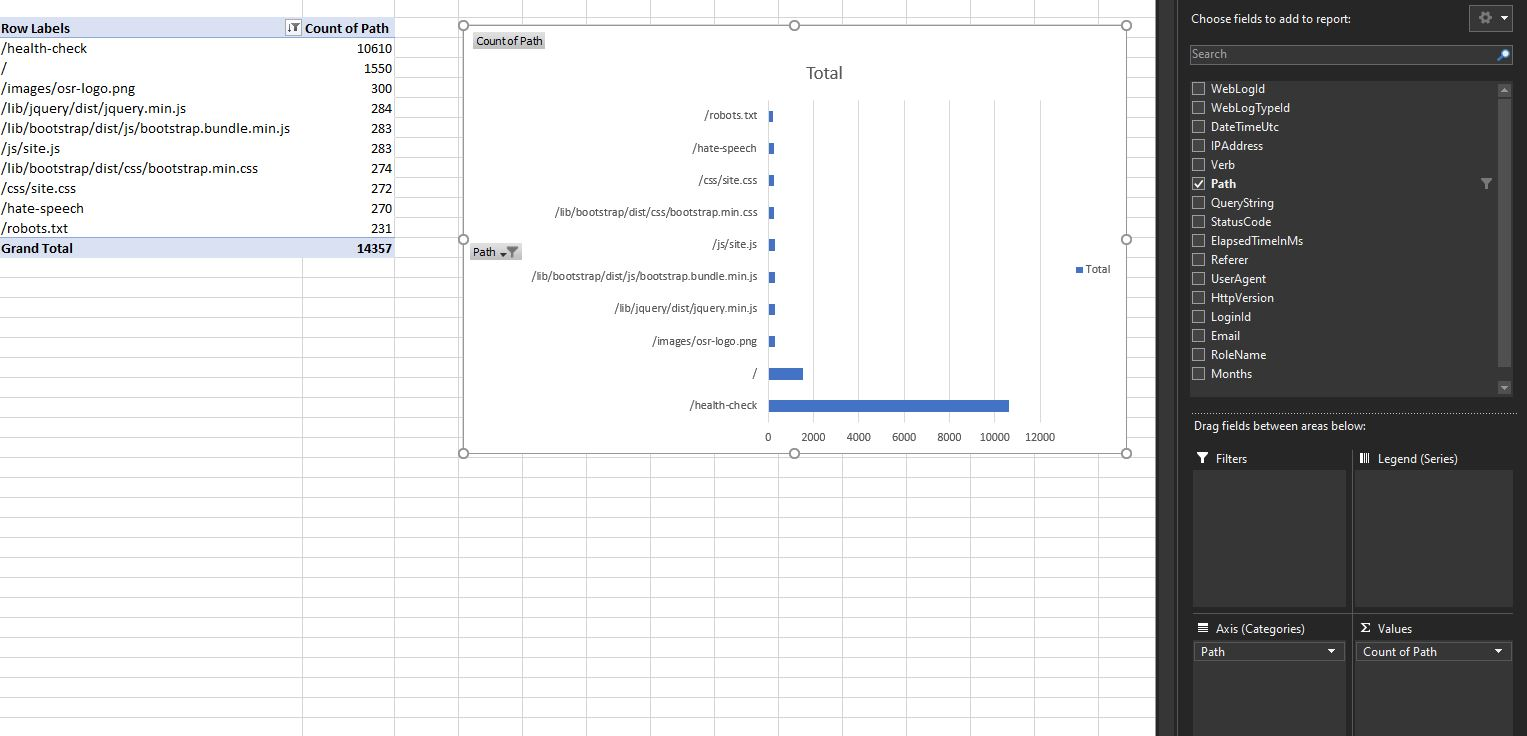
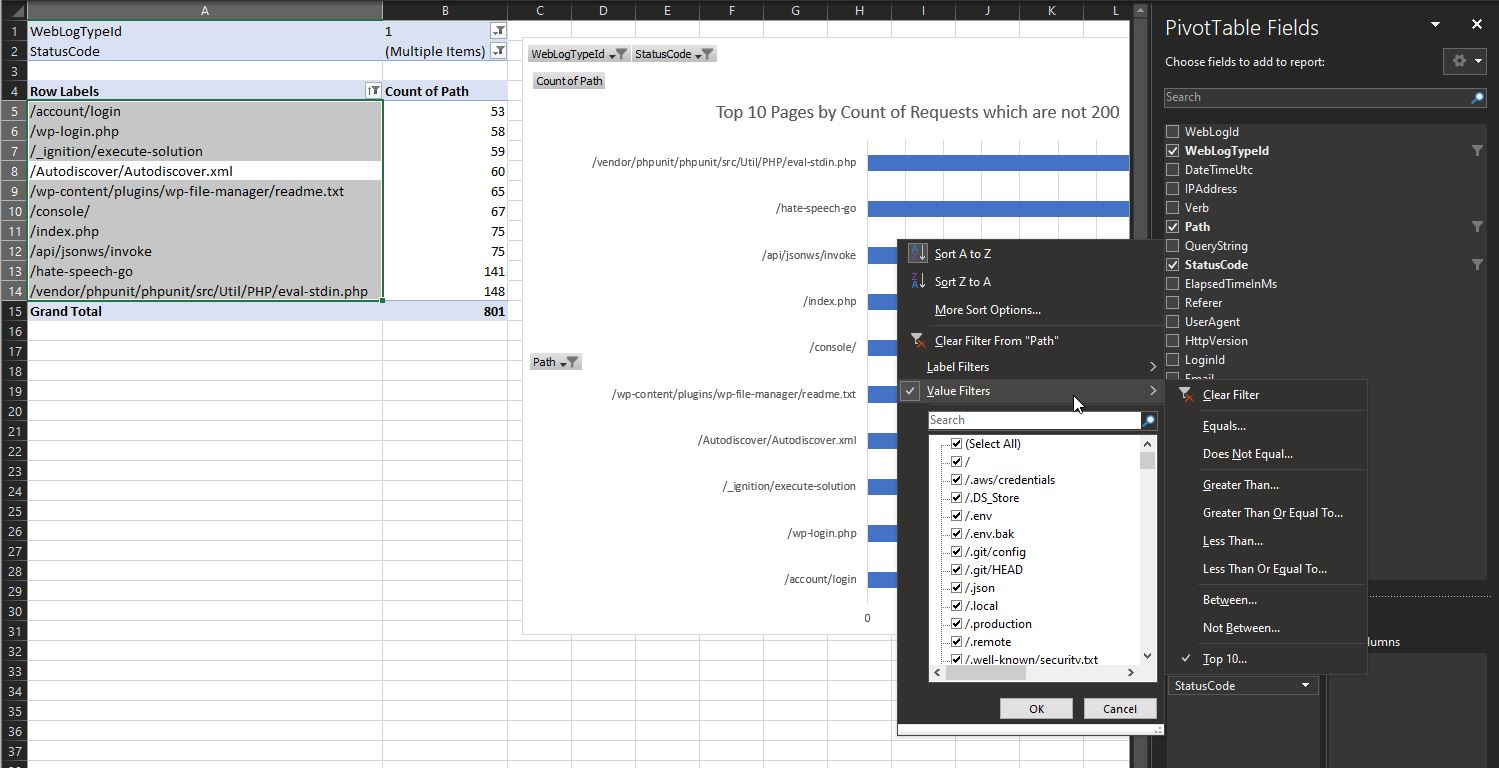
auto

diff --git a/_posts/2021-11-11-custom interactive dashboard in excel.md b/_posts/2021-11-11-custom interactive dashboard in excel.md
@@ -125,9 +125,13 @@ Am trying to sort on `Count of WebLogId` but can't
 [https://www.contextures.com/excel-pivot-table-sorting.html](https://www.contextures.com/excel-pivot-table-sorting.html) gave me the clue
 
 
+[![alt text](/assets/2021-11-11/sort2.jpg "sort2")](/assets/2021-11-10/sort2.jpg)
+
+Sort the PivotTable and PivotChart
+
 [![alt text](/assets/2021-11-11/sort.jpg "sort")](/assets/2021-11-10/sort.jpg)
 
-Sorted. Along with a value filter of top 10 only
+Value filter of top 10 only on Path.
 
 ## Columns in Bar chart
 
